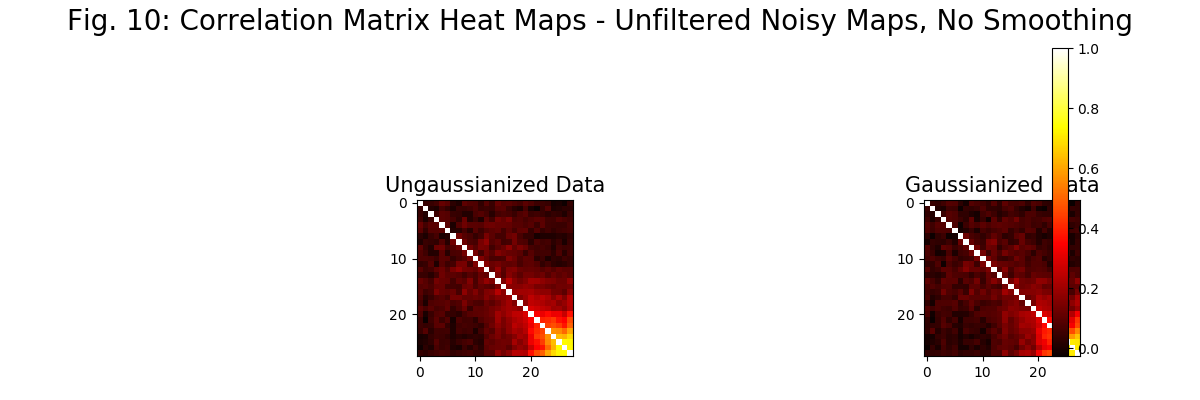
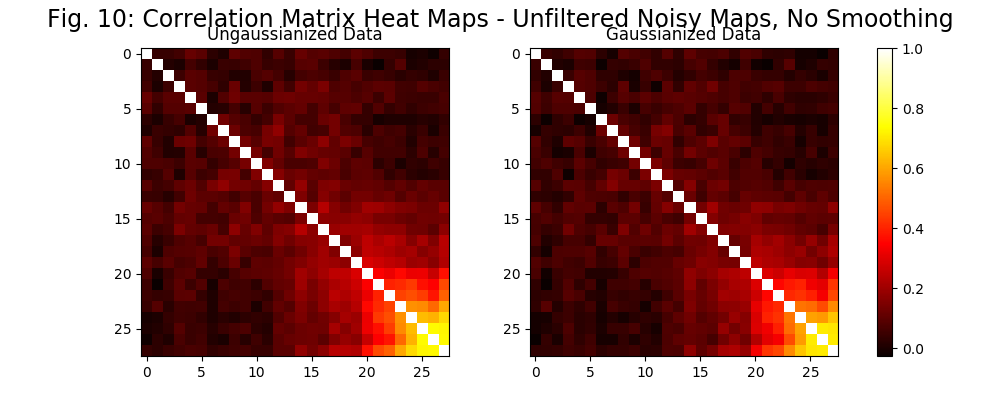
format

diff --git a/Parallel Gaussianization/Noisy Maps/gauss_SNR_nois.py b/Parallel Gaussianization/Noisy Maps/gauss_SNR_nois.py
@@ -171,19 +171,19 @@ correlgauss = corr_mat(covargauss)
 
 #fig2.savefig("noisycorrmat_gauss.png")
 
-fig2, (ax1, ax2) = plt.subplots(nrows=1, ncols=2, figsize = (12, 4))
+fig2, (ax1, ax2) = plt.subplots(nrows=1, ncols=2, figsize = (10, 4))
 axlist = [ax1, ax2]
 
-fig2.suptitle("Fig. 10: Correlation Matrix Heat Maps - Unfiltered Noisy Maps, No Smoothing", fontsize = "20")
+fig2.suptitle("Fig. 10: Correlation Matrix Heat Maps - Unfiltered Noisy Maps, No Smoothing", fontsize = "17")
 first = ax1.imshow(np.array(correl), cmap = 'hot', vmin = -0.025, vmax = 1.0)
-ax1.set_title('Ungaussianized Data', fontsize = "15")
+ax1.set_title('Ungaussianized Data', fontsize = "12")
 
 ax2.imshow(np.array(correlgauss), cmap = 'hot', vmin = -0.025, vmax = 1.0)
-ax2.set_title('Gaussianized Data', fontsize = "15")
+ax2.set_title('Gaussianized Data', fontsize = "12")
 
 
 fig2.colorbar(first, ax=axlist, fraction=0.03)
-plt.subplots_adjust(top = 0.5)
+#plt.subplots_adjust(top = 0.5)
 fig2.savefig("corrmat_allnoisy.png")
 
 
